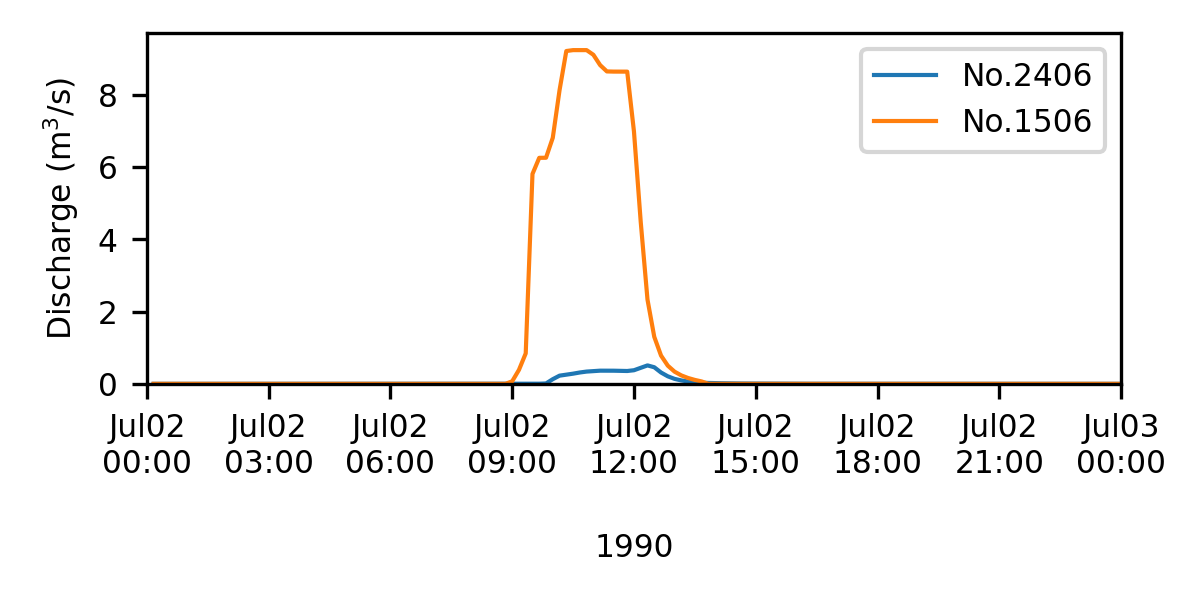
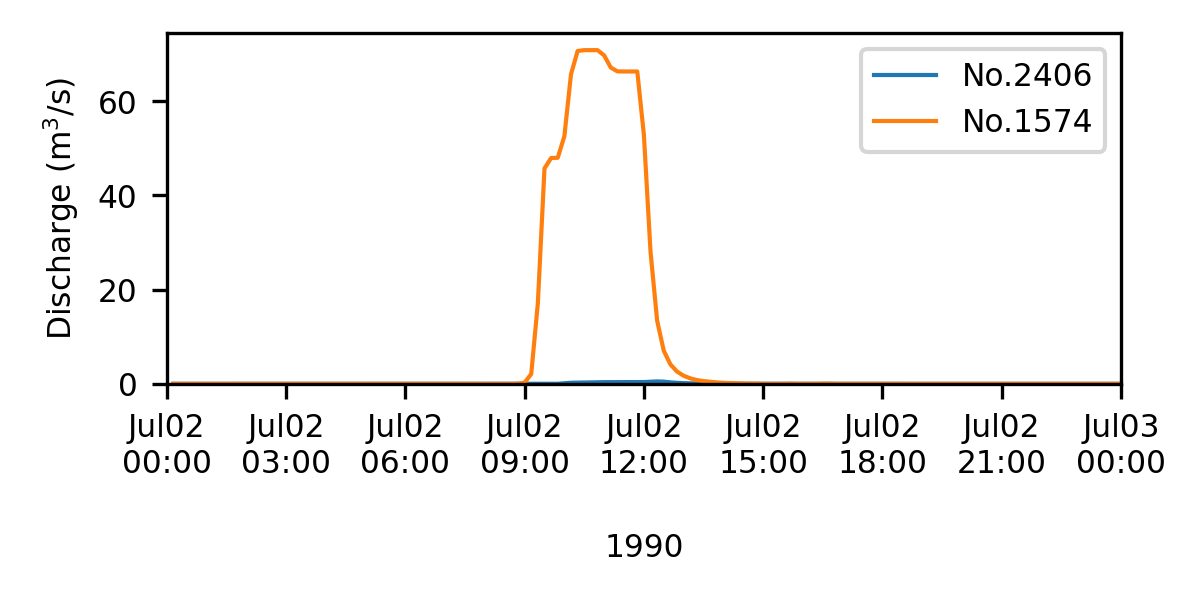
[revised] label on y axis

diff --git a/13_Furuegawa_flattenDir/README.md b/13_Furuegawa_flattenDir/README.md
@@ -263,7 +263,7 @@ python bin_fig/RR_out_hydro.py 2406
 節点番号はコンマ区切りで複数点与えることができます。
 
 ```
-python bin_fig/RR_out_hydro.py 2406,1506
+python bin_fig/RR_out_hydro.py 2406,1574
 ```
 
 ![](./img/RR_hydro_2pts.png)
